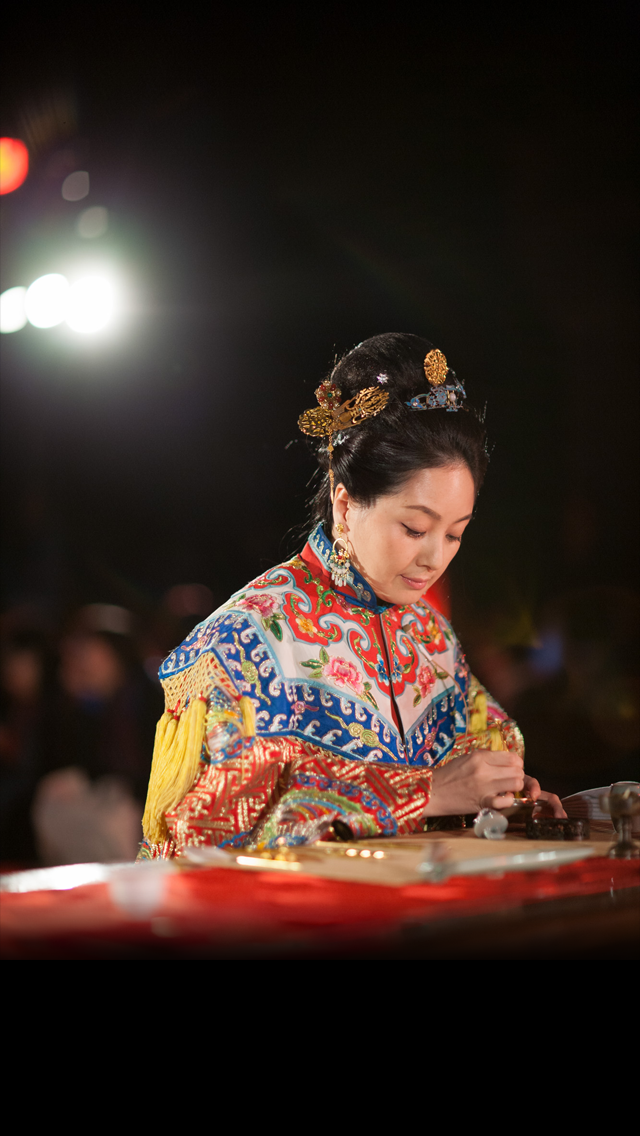
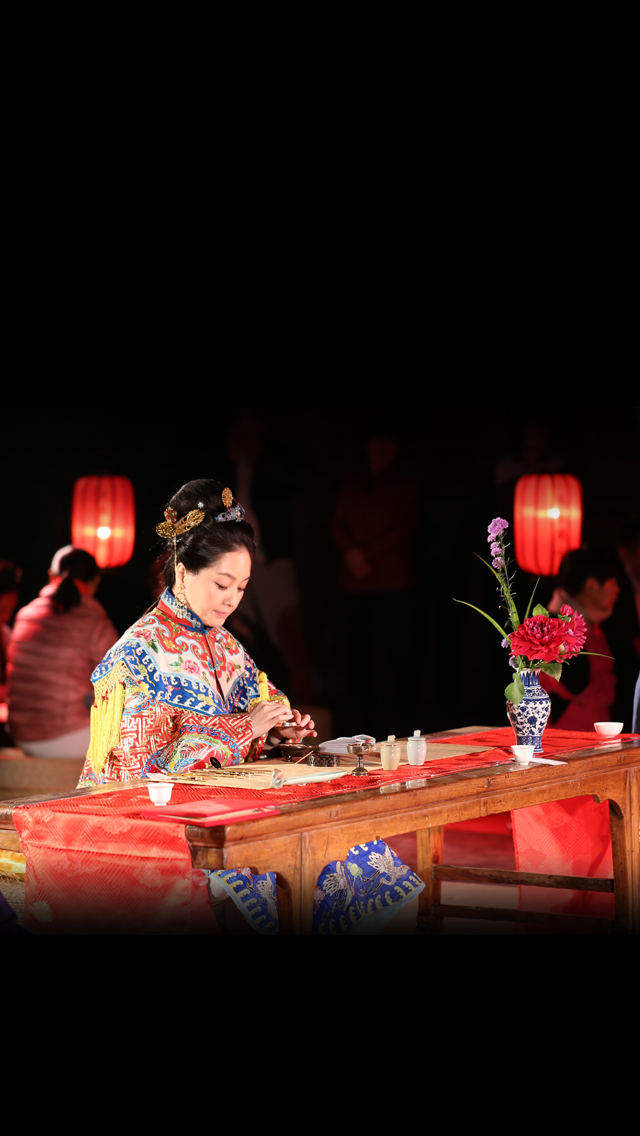
second update.

diff --git a/publish/index.html b/publish/index.html
@@ -27,10 +27,11 @@
       document.write('<meta name="viewport" content="width=640, user-scalable=no, target-densitydpi=device-dpi">');
     }
   </script>
-  <style type="text/css">html,body{padding:0;margin:0;overflow:hidden;background:#000}#mask-container{position:absolute;top:0;left:0;width:100%;height:100%;opacity:1;-webkit-transition:all 1s ease;transition:all 1s ease;z-index:30;background:url(./img/mask.png) no-repeat 0 0;background-size:cover}#touch-tip{position:absolute;left:50%;width:329px;height:28px;margin-left:-164px;bottom:10%;z-index:40;background:url(./img/touch-tip.png) no-repeat 0 0}#audio{display:none}.pages{width:640px;height:100%;position:relative;top:0;left:0;margin:auto}.page{position:absolute;top:0;left:0;width:100%;height:100%;-webkit-background-size:cover;background-size:cover;background-position:top center;overflow:hidden;-webkit-transition:all 1s ease;transition:all 1s ease}#arrow-down{position:absolute;left:50%;bottom:3%;width:55px;height:33px;margin-left:-28px;background:url(./img/arrow-down.png) no-repeat 0 0;background-size:cover;z-index:20}#arrow-down.to-index{width:61px;height:44px;margin-left:-30px;background:url(./img/return.png) no-repeat 0 0}#page1{display:block;background-image:url(./img/1.png)}#page2{background-color:#000}.white,.yellow{position:absolute;top:0;left:0;width:100%;height:100%;opacity:0;-webkit-transition:opacity 2s ease;transition:opacity 2s ease}.white{background:url(./img/white.png) no-repeat 0 0}.yellow{background:url(./img/yellow.png) no-repeat 0 0}@-webkit-keyframes 'fade-in-out'{from{opacity:0}50%{opacity:1}to{opacity:0}}.fade-in-out{-webkit-animation:fade-in-out 2.5s ease-in .2s}#page3{font-size:0;background-color:#000}.floor{margin:0;width:100%;overflow:hidden;background-size:cover;-webkit-transition:all 1s ease;transition:all 1s ease}.floor1{height:270px;background:#000 url(./img/floor1.png) no-repeat right center;-webkit-transform:translate3d(-640px,0,0)}.floor2{height:292px;background:#000 url(./img/floor2.png) no-repeat left center;-webkit-transform:translate3d(640px,0,0)}.floor3{height:398px;background:rgba(229,228,228,1) url(./img/floor3.png) no-repeat left center;-webkit-transform:translate3d(-640px,0,0)}.floor2-inside{width:100%;height:100%;background:#aa0605 url(./img/floor2-inside.png) no-repeat center left;-webkit-transform:translate3d(498px,0,0);-webkit-transition:all 1s ease;transition:all 1s ease}#floor2-inside-handler{height:100%;width:142px}#left-hand{position:absolute;bottom:15px;left:-55px;margin-top:-25px;width:39px;height:50px;background:url(./img/hand.png) no-repeat 0 0}.floor-target{-webkit-transform:translate3d(0,0,0)!important}#page4{background-image:url(./img/4.png);opacity:0}#page5{background-image:url(./img/5.png);opacity:0}#page6{background-image:url(./img/6.png);opacity:0}#page7{background-image:url(./img/7.png);opacity:0}#page8{background-image:url(./img/8.png);opacity:0}#page9{background-image:url(./img/9.png);opacity:0}.page-inside{width:100%;height:100%;opacity:0;-webkit-transition:all 1s ease;transition:all 1s ease;background:transparent no-repeat 0 0}#page4 .page-inside{background-image:url(./img/4-1.png)}#page5 .page-inside{background-image:url(./img/5-1.png)}#page6 .page-inside{background-image:url(./img/6-1.png)}#page7 .page-inside{background-image:url(./img/7-1.png)}#page8 .page-inside{background-image:url(./img/8-1.png)}#page9 .page-inside{background-image:url(./img/9-1.png)}#audio-control{position:absolute;top:90px;right:50px;width:107px;height:107px;background:url(./img/music.png) no-repeat center center;background-size:cover;z-index:20}#audio-control.off{background-image:url(./img/musicoff.png)}</style>
+  <style type="text/css">html,body{padding:0;margin:0;overflow:hidden;background:#000}#mask-container{position:absolute;top:0;left:0;width:100%;height:100%;opacity:1;-webkit-transition:all 1s ease;transition:all 1s ease;z-index:30;background:url(./img/mask.png) no-repeat 0 0;background-size:cover}#touch-tip{position:absolute;left:50%;width:329px;height:28px;margin-left:-164px;bottom:10%;z-index:40;background:url(./img/touch-tip.png) no-repeat 0 0}#audio{display:none}.pages{width:640px;height:100%;position:relative;top:0;left:0;margin:auto}.page{position:absolute;top:0;left:0;width:100%;height:100%;-webkit-background-size:cover;background-size:cover;background-position:top center;overflow:hidden;-webkit-transition:all 1s ease;transition:all 1s ease}#arrow-down{position:absolute;left:50%;bottom:3%;width:55px;height:33px;margin-left:-28px;background:url(./img/arrow-down.png) no-repeat 0 0;background-size:cover;z-index:20}#arrow-down.to-index{width:61px;height:44px;margin-left:-30px;background:url(./img/return.png) no-repeat 0 0}#page1{display:block;background-image:url(./img/1.png)}#page2{background-color:#000}.white,.yellow{position:absolute;top:0;left:0;width:100%;height:100%;opacity:0;-webkit-transition:opacity 2s ease;transition:opacity 2s ease}.white{background:url(./img/white.png) no-repeat 0 0}.yellow{background:url(./img/yellow.png) no-repeat 0 0}@-webkit-keyframes 'fade-in-out'{from{opacity:0}50%{opacity:1}to{opacity:0}}.fade-in-out{-webkit-animation:fade-in-out 2.5s ease-in .2s}#page3{font-size:0;background-color:#000}.floor{margin:0;width:100%;overflow:hidden;background-size:cover;-webkit-transition:all 1s ease;transition:all 1s ease}.floor1{height:270px;background:#000 url(./img/floor1.png) no-repeat right center;-webkit-transform:translate3d(-640px,0,0)}.floor2{height:292px;background:#000 url(./img/floor2.png) no-repeat left center;-webkit-transform:translate3d(640px,0,0)}.floor3{height:574px;background:rgba(229,228,228,1) url(./img/floor3.png) no-repeat left center;-webkit-transform:translate3d(-640px,0,0)}.floor2-inside{width:100%;height:100%;background:#aa0605 url(./img/floor2-inside.png) no-repeat center left;-webkit-transform:translate3d(498px,0,0);-webkit-transition:all 1s ease;transition:all 1s ease}#floor2-inside-handler{height:100%;width:142px}#left-hand{position:absolute;bottom:15px;left:-55px;margin-top:-25px;width:39px;height:50px;background:url(./img/hand.png) no-repeat 0 0}.floor-target{-webkit-transform:translate3d(0,0,0)!important}#page4{background-image:url(./img/4.png);opacity:0}#page5{background-image:url(./img/4-2.png);opacity:0}#page6{background-image:url(./img/5.png);opacity:0}#page7{background-image:url(./img/6.png);opacity:0}#page8{background-image:url(./img/7.png);opacity:0}#page9{background-image:url(./img/8.png);opacity:0}#page10{background-image:url(./img/9.png);opacity:0}.page-inside{width:100%;height:100%;opacity:0;-webkit-transition:all 1s ease;transition:all 1s ease;background:transparent no-repeat 0 0}#page4 .page-inside{background-image:url(./img/4-1.png)}#page5 .page-inside{background-image:url(./img/4-2-1.png)}#page6 .page-inside{background-image:url(./img/5-1.png)}#page7 .page-inside{background-image:url(./img/6-1.png)}#page8 .page-inside{background-image:url(./img/7-1.png)}#page9 .page-inside{background-image:url(./img/8-1.png)}#page10 .page-inside{background-image:url(./img/9-1.png)}#audio-control{position:absolute;top:90px;right:50px;width:107px;height:107px;background:url(./img/music.png) no-repeat center center;background-size:cover;z-index:20}#audio-control.off{background-image:url(./img/musicoff.png)}</style>
 </head>
 <body>
 <div class="pages">
+  <div id="page10" class="page"><div class="page-inside"></div></div>
   <div id="page9" class="page"><div class="page-inside"></div></div>
   <div id="page8" class="page"><div class="page-inside"></div></div>
   <div id="page7" class="page"><div class="page-inside"></div></div>
@@ -62,7 +63,7 @@
 <div id="mask-container"></div>
 <!-- <div id="touch-tip"></div> -->
 <script type="text/javascript">function Lottery(t,e,i,n,s,o){this.conId=t,this.conNode=document.getElementById(this.conId),this.cover=e,this.coverType=i,this.background=null,this.backCtx=null,this.mask=null,this.maskCtx=null,this.lottery=null,this.lotteryType="image",this.width=n||640,this.height=s||1136,this.clientRect=null,this.drawPercentCallback=o}Lottery.prototype={createElement:function(t,e){var i=document.createElement(t);for(var n in e)i.setAttribute(n,e[n]);return i},getTransparentPercent:function(t,e,i){for(var n=t.getImageData(0,0,e,i),s=n.data,o=[],a=0,h=s.length;h>a;a+=4){var c=s[a+3];128>c&&o.push(a)}return(o.length/(s.length/4)*100).toFixed(2)},resizeCanvas:function(t,e,i){t.width=e,t.height=i,t.getContext("2d").clearRect(0,0,e,i)},drawPoint:function(t,e){this.maskCtx.beginPath();var i=this.maskCtx.createRadialGradient(t,e,0,t,e,200);i.addColorStop(0,"rgba(0,0,0,0.6)"),i.addColorStop(1,"rgba(255, 255, 255, 0)"),this.maskCtx.fillStyle=i,this.maskCtx.arc(t,e,200,0,4*Math.PI,!0),this.maskCtx.fill(),this.drawPercentCallback&&this.drawPercentCallback.call(null,this.getTransparentPercent(this.maskCtx,this.width,this.height))},bindEvent:function(){var t=this,e=/android|webos|iphone|ipad|ipod|blackberry|iemobile|opera mini/i.test(navigator.userAgent.toLowerCase()),i=e?"touchstart":"mousedown",n=e?"touchmove":"mousemove";if(e)document.addEventListener("touchmove",function(t){s&&t.preventDefault()},!1),document.addEventListener("touchend",function(){s=!1},!1);else{var s=!1;document.addEventListener("mouseup",function(){s=!1},!1)}this.mask.addEventListener(i,function(i){s=!0;var n=document.documentElement;t.clientRect||(t.clientRect={left:0,top:0});var o=(e?i.touches[0].clientX:i.clientX)-t.clientRect.left+n.scrollLeft-n.clientLeft,a=(e?i.touches[0].clientY:i.clientY)-t.clientRect.top+n.scrollTop-n.clientTop;t.drawPoint(o,a)},!1),this.mask.addEventListener(n,function(i){if(!e&&!s)return!1;var n=document.documentElement;t.clientRect||(t.clientRect={left:0,top:0});var o=(e?i.touches[0].clientX:i.clientX)-t.clientRect.left+n.scrollLeft-n.clientLeft,a=(e?i.touches[0].clientY:i.clientY)-t.clientRect.top+n.scrollTop-n.clientTop;t.drawPoint(o,a)},!1)},removeAll:function(){this.conNode.removeChild(this.background),this.conNode.removeChild(this.this.mask)},drawLottery:function(){if(this.background=this.background||this.createElement("canvas",{style:"position:absolute;left:0;top:0;"}),this.mask=this.mask||this.createElement("canvas",{style:"position:absolute;left:0;top:0;"}),this.conNode.innerHTML.replace(/[\w\W]| /g,"")||(this.conNode.appendChild(this.background),this.conNode.appendChild(this.mask),this.clientRect=this.conNode?this.conNode.getBoundingClientRect():null,this.bindEvent()),this.backCtx=this.backCtx||this.background.getContext("2d"),this.maskCtx=this.maskCtx||this.mask.getContext("2d"),"image"==this.lotteryType){var t=new Image,e=this;t.onload=function(){e.width=this.width,e.height=this.height,e.resizeCanvas(e.background,this.width,this.height),e.backCtx.drawImage(this,0,0),e.drawMask()},t.src=this.lottery}},drawMask:function(){if(this.resizeCanvas(this.mask,this.width,this.height),"color"==this.coverType)this.maskCtx.fillStyle="rgba(225,225,225,0.7)",this.maskCtx.fillRect(0,0,this.width,this.height),this.maskCtx.globalCompositeOperation="destination-out";else if("image"==this.coverType){var t=new Image,e=this;t.onload=function(){e.maskCtx.drawImage(this,0,0),e.maskCtx.globalCompositeOperation="destination-out"},t.src=this.cover}},init:function(t){this.lottery=t,this.lotteryType="image",this.drawLottery()}};
-function drawPercent(t){t>20&&(setStyle(byId("mask-container"),"opacity",0),setStyle(byId("touch-tip"),"display","none"),setTimeout(function(){byId("mask-container").style.display="none",audioControl.classList.remove("off"),audio.play()},1e3))}function addEvent(t,e,i){t.addEventListener(e,i,!1)}function byId(t){return doc.getElementById(t)}function setTransform(t,e){t&&(t.style.webkitTransform=e)}function getCurrentTransition(t,e){var i=t?t.style.getPropertyCSSValue("-webkit-transform"):null;return i?parseFloat(i[0][e].cssText):0}function toggleTransitionDuration(t,e){var i=e?"all 0 ease":"";t&&(t.style.webkitTransition=i,t.style.transition=i)}function setTransitionDuratoin(t,e){var i="all "+e+"s ease-out";t&&(t.style.webkitTransition=i,t.style.transition=i)}function setStyle(t,e,i){t&&(t.style[e]=i)}var doc=window.document,docElem=doc.documentElement,clientHeight=docElem.clientHeight;document.body.style.height=clientHeight+"px";var arrowDown=byId("arrow-down"),currentPageIndex=0,lottery=new Lottery("mask-container","img/mask.png","image",640,1136,drawPercent);lottery.init("img/1.png","image");var animations=[{page1:byId("page1"),init:function(){return setStyle(this.page1,"opacity",0),this},animate:function(){setStyle(this.page1,"opacity",1)},leave:function(t){setStyle(this.page1,"opacity",0),setTimeout(t,1e3)}},{page2:byId("page2"),white:doc.querySelector("#page2 .white"),yellow:doc.querySelector("#page2 .yellow"),init:function(){return toggleTransitionDuration(this.white,!0),toggleTransitionDuration(this.yellow,!0),toggleTransitionDuration(this.page2,!0),this.white.classList.remove("fade-in-out"),this.yellow.classList.remove("fade-in-out"),setStyle(this.white,"opacity","0"),setStyle(this.yellow,"opacity","0"),setStyle(this.page2,"opacity",1),toggleTransitionDuration(this.white),toggleTransitionDuration(this.yellow),toggleTransitionDuration(this.page2),this},animate:function(){var t=this;this.white.classList.add("fade-in-out"),setTimeout(function(){t.yellow.classList.add("fade-in-out")},2500),setTimeout(function(){setStyle(t.white,"opacity",1),setStyle(t.yellow,"opacity",1)},5500)},leave:function(t){setStyle(this.page2,"opacity",0),setTimeout(t,1e3)}},{init:function(){for(var t=doc.querySelectorAll(".floor"),e=0;e<t.length;e++)t[e].classList.remove("floor-target");return doc.querySelector(".floor2-inside").classList.remove("floor-target"),this},animate:function(){for(var t=doc.querySelectorAll(".floor"),e=0;e<t.length;e++)t[e].classList.add("floor-target")},leave:function(t){this.init(),setTimeout(t,1e3)}},{page4:byId("page4"),inside:doc.querySelector("#page4 .page-inside"),init:function(){return setStyle(this.page4,"opacity",0),setStyle(this.inside,"opacity",0),this},animate:function(){setStyle(this.page4,"opacity",1);var t=this;setTimeout(function(){setStyle(t.inside,"opacity",1)},1e3)},leave:function(t){setStyle(this.page4,"opacity",0),setTimeout(t,1e3)}},{page5:byId("page5"),inside:doc.querySelector("#page5 .page-inside"),init:function(){return setStyle(this.page5,"opacity",0),setStyle(this.inside,"opacity",0),this},animate:function(){setStyle(this.page5,"opacity",1);var t=this;setTimeout(function(){setStyle(t.inside,"opacity",1)},1e3)},leave:function(t){setStyle(this.page5,"opacity",0),setTimeout(t,1e3)}},{page6:byId("page6"),inside:doc.querySelector("#page6 .page-inside"),init:function(){return setStyle(this.page6,"opacity",0),setStyle(this.inside,"opacity",0),this},animate:function(){setStyle(this.page6,"opacity",1);var t=this;setTimeout(function(){setStyle(t.inside,"opacity",1)},1e3)},leave:function(t){setStyle(this.page6,"opacity",0),setTimeout(t,1e3)}},{page7:byId("page7"),inside:doc.querySelector("#page7 .page-inside"),init:function(){return setStyle(this.page7,"opacity",0),setStyle(this.inside,"opacity",0),this},animate:function(){setStyle(this.page7,"opacity",1);var t=this;setTimeout(function(){setStyle(t.inside,"opacity",1)},1e3)},leave:function(t){setStyle(this.page7,"opacity",0),setTimeout(t,1e3)}},{page8:byId("page8"),inside:doc.querySelector("#page8 .page-inside"),init:function(){return setStyle(this.page8,"opacity",0),setStyle(this.inside,"opacity",0),this},animate:function(){setStyle(this.page8,"opacity",1);var t=this;setTimeout(function(){setStyle(t.inside,"opacity",1)},1e3)},leave:function(t){setStyle(this.page8,"opacity",0),setTimeout(t,1e3)}},{page9:byId("page9"),inside:doc.querySelector("#page9 .page-inside"),init:function(){return setStyle(this.page9,"opacity",0),setStyle(this.inside,"opacity",0),this},animate:function(){setStyle(this.page9,"opacity",1);var t=this;setTimeout(function(){setStyle(t.inside,"opacity",1)},1e3)},leave:function(t){setStyle(this.page9,"opacity",0),setTimeout(t,1e3)}}];addEvent(arrowDown,"click",function(t){t.preventDefault();var e=animations[currentPageIndex];e||(e=animations[0],currentPageIndex=0),e.leave(function(){var t=byId("page"+(currentPageIndex+1));setStyle(t,"z-index","");var i=animations[currentPageIndex+1];i?currentPageIndex++:(i=animations[0],currentPageIndex=0);var n=byId("page"+(currentPageIndex+1));setStyle(n,"z-index",10),i.animate(),8==currentPageIndex?byId("arrow-down").classList.add("to-index"):byId("arrow-down").classList.remove("to-index"),setTimeout(function(){e.init()},1e3)})});var slide=function(t){t.preventDefault(),t.stopPropagation();var e=doc.querySelector(".floor2-inside");return e.classList.contains("floor-target")?e.classList.remove("floor-target"):e.classList.add("floor-target"),!1};addEvent(byId("floor2-inside-handler"),"click",slide),addEvent(byId("left-hand"),"click",slide);var audio=byId("audio"),audioControl=byId("audio-control");addEvent(audioControl,"click",function(t){t.preventDefault(),audioControl.classList.contains("off")?(audioControl.classList.remove("off"),audio.play()):(audioControl.classList.add("off"),audio.pause())});
+function drawPercent(t){t>20&&(setStyle(byId("mask-container"),"opacity",0),setStyle(byId("touch-tip"),"display","none"),setTimeout(function(){byId("mask-container").style.display="none",audioControl.classList.remove("off"),audio.play()},1e3))}function addEvent(t,e,i){t.addEventListener(e,i,!1)}function byId(t){return doc.getElementById(t)}function setTransform(t,e){t&&(t.style.webkitTransform=e)}function getCurrentTransition(t,e){var i=t?t.style.getPropertyCSSValue("-webkit-transform"):null;return i?parseFloat(i[0][e].cssText):0}function toggleTransitionDuration(t,e){var i=e?"all 0 ease":"";t&&(t.style.webkitTransition=i,t.style.transition=i)}function setTransitionDuratoin(t,e){var i="all "+e+"s ease-out";t&&(t.style.webkitTransition=i,t.style.transition=i)}function setStyle(t,e,i){t&&(t.style[e]=i)}var doc=window.document,docElem=doc.documentElement,clientHeight=docElem.clientHeight;document.body.style.height=clientHeight+"px";var arrowDown=byId("arrow-down"),currentPageIndex=0,lottery=new Lottery("mask-container","img/mask.png","image",640,1136,drawPercent);lottery.init("img/1.png","image");var animations=[{page1:byId("page1"),init:function(){return setStyle(this.page1,"opacity",0),this},animate:function(){setStyle(this.page1,"opacity",1)},leave:function(t){setStyle(this.page1,"opacity",0),setTimeout(t,1e3)}},{page2:byId("page2"),white:doc.querySelector("#page2 .white"),yellow:doc.querySelector("#page2 .yellow"),init:function(){return toggleTransitionDuration(this.white,!0),toggleTransitionDuration(this.yellow,!0),toggleTransitionDuration(this.page2,!0),this.white.classList.remove("fade-in-out"),this.yellow.classList.remove("fade-in-out"),setStyle(this.white,"opacity","0"),setStyle(this.yellow,"opacity","0"),setStyle(this.page2,"opacity",1),toggleTransitionDuration(this.white),toggleTransitionDuration(this.yellow),toggleTransitionDuration(this.page2),this},animate:function(){var t=this;this.white.classList.add("fade-in-out"),setTimeout(function(){t.yellow.classList.add("fade-in-out")},2500),setTimeout(function(){setStyle(t.white,"opacity",1),setStyle(t.yellow,"opacity",1)},5500)},leave:function(t){setStyle(this.page2,"opacity",0),setTimeout(t,1e3)}},{init:function(){for(var t=doc.querySelectorAll(".floor"),e=0;e<t.length;e++)t[e].classList.remove("floor-target");return doc.querySelector(".floor2-inside").classList.remove("floor-target"),this},animate:function(){for(var t=doc.querySelectorAll(".floor"),e=0;e<t.length;e++)t[e].classList.add("floor-target")},leave:function(t){this.init(),setTimeout(t,1e3)}},{page4:byId("page4"),inside:doc.querySelector("#page4 .page-inside"),init:function(){return setStyle(this.page4,"opacity",0),setStyle(this.inside,"opacity",0),this},animate:function(){setStyle(this.page4,"opacity",1);var t=this;setTimeout(function(){setStyle(t.inside,"opacity",1)},1e3)},leave:function(t){setStyle(this.page4,"opacity",0),setTimeout(t,1e3)}},{page4:byId("page5"),inside:doc.querySelector("#page5 .page-inside"),init:function(){return setStyle(this.page4,"opacity",0),setStyle(this.inside,"opacity",0),this},animate:function(){setStyle(this.page4,"opacity",1);var t=this;setTimeout(function(){setStyle(t.inside,"opacity",1)},1e3)},leave:function(t){setStyle(this.page4,"opacity",0),setTimeout(t,1e3)}},{page5:byId("page6"),inside:doc.querySelector("#page6 .page-inside"),init:function(){return setStyle(this.page5,"opacity",0),setStyle(this.inside,"opacity",0),this},animate:function(){setStyle(this.page5,"opacity",1);var t=this;setTimeout(function(){setStyle(t.inside,"opacity",1)},1e3)},leave:function(t){setStyle(this.page5,"opacity",0),setTimeout(t,1e3)}},{page6:byId("page7"),inside:doc.querySelector("#page7 .page-inside"),init:function(){return setStyle(this.page6,"opacity",0),setStyle(this.inside,"opacity",0),this},animate:function(){setStyle(this.page6,"opacity",1);var t=this;setTimeout(function(){setStyle(t.inside,"opacity",1)},1e3)},leave:function(t){setStyle(this.page6,"opacity",0),setTimeout(t,1e3)}},{page7:byId("page8"),inside:doc.querySelector("#page8 .page-inside"),init:function(){return setStyle(this.page7,"opacity",0),setStyle(this.inside,"opacity",0),this},animate:function(){setStyle(this.page7,"opacity",1);var t=this;setTimeout(function(){setStyle(t.inside,"opacity",1)},1e3)},leave:function(t){setStyle(this.page7,"opacity",0),setTimeout(t,1e3)}},{page8:byId("page9"),inside:doc.querySelector("#page9 .page-inside"),init:function(){return setStyle(this.page8,"opacity",0),setStyle(this.inside,"opacity",0),this},animate:function(){setStyle(this.page8,"opacity",1);var t=this;setTimeout(function(){setStyle(t.inside,"opacity",1)},1e3)},leave:function(t){setStyle(this.page8,"opacity",0),setTimeout(t,1e3)}},{page9:byId("page10"),inside:doc.querySelector("#page10 .page-inside"),init:function(){return setStyle(this.page9,"opacity",0),setStyle(this.inside,"opacity",0),this},animate:function(){setStyle(this.page9,"opacity",1);var t=this;setTimeout(function(){setStyle(t.inside,"opacity",1)},1e3)},leave:function(t){setStyle(this.page9,"opacity",0),setTimeout(t,1e3)}}];addEvent(arrowDown,"click",function(t){t.preventDefault();var e=animations[currentPageIndex];e||(e=animations[0],currentPageIndex=0),e.leave(function(){var t=byId("page"+(currentPageIndex+1));setStyle(t,"z-index","");var i=animations[currentPageIndex+1];i?currentPageIndex++:(i=animations[0],currentPageIndex=0);var n=byId("page"+(currentPageIndex+1));setStyle(n,"z-index",10),i.animate(),9==currentPageIndex?byId("arrow-down").classList.add("to-index"):byId("arrow-down").classList.remove("to-index"),setTimeout(function(){e.init()},1e3)})});var slide=function(t){t.preventDefault(),t.stopPropagation();var e=doc.querySelector(".floor2-inside");return e.classList.contains("floor-target")?e.classList.remove("floor-target"):e.classList.add("floor-target"),!1};addEvent(byId("floor2-inside-handler"),"click",slide),addEvent(byId("left-hand"),"click",slide);var audio=byId("audio"),audioControl=byId("audio-control");addEvent(audioControl,"click",function(t){t.preventDefault(),audioControl.classList.contains("off")?(audioControl.classList.remove("off"),audio.play()):(audioControl.classList.add("off"),audio.pause())});
 !function(){function i(){WeixinJSBridge.invoke("sendAppMessage",{appid:s,img_url:t,img_width:"600",img_height:"600",link:u,desc:o,title:g},function(){})}function n(){WeixinJSBridge.invoke("shareTimeline",{img_url:t,img_width:"600",img_height:"600",link:u,desc:o,title:g},function(){})}function e(){WeixinJSBridge.invoke("shareWeibo",{content:o,url:u},function(){})}var t="http://xingyunshisui.github.io/site/publish/img/weixin_cover.png",u="http://xingyunshisui.github.io/site/publish",o="傅京亮先生解读《红楼梦》，独辟“香”径，通过香品焚烧所产生的香气、香味、香韵，组合成一种特殊的语言。",g="慧通和香《红楼梦》十二金钗与贾宝玉藏品香 品赏邀请",s="wxc9937e3a66af6dc8";document.addEventListener("WeixinJSBridgeReady",function(){WeixinJSBridge.on("menu:share:appmessage",function(){i()}),WeixinJSBridge.on("menu:share:timeline",function(){n()}),WeixinJSBridge.on("menu:share:weibo",function(){e()})},!1)}();</script>
 </body>
 </html>
